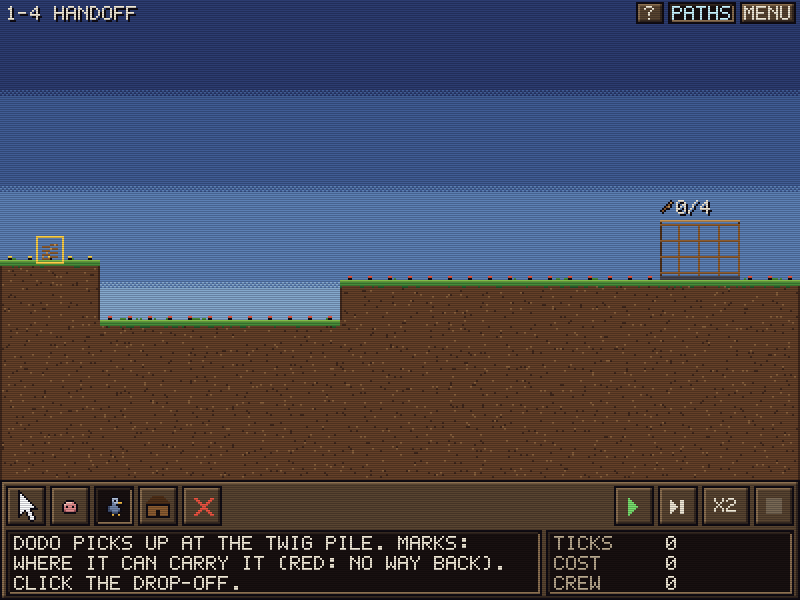
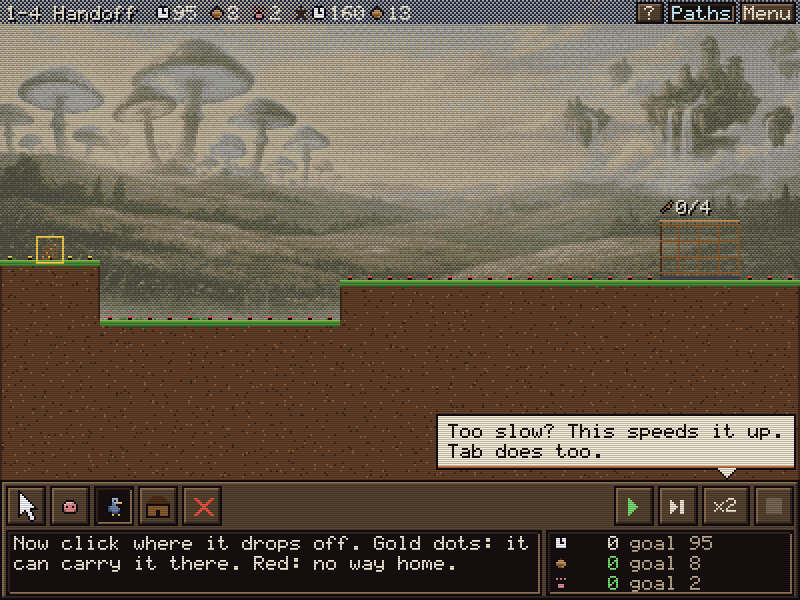
Bird Fortress round 2: docs, balance notes, new screenshots

diff --git a/birdfortress/README.md b/birdfortress/README.md
@@ -46,21 +46,48 @@ different design:
   has one dock (the fortress has two); a pickup or handover holds it for 2 ticks.
 - **Infrastructure:** a springboard adds +2 jump to anyone leaping from it. A ladder costs 1 seed
   per rung. A plank is a one-way board that costs 2 seeds a tile.
+- **Clouds** (chapter V) are one-way platforms that hold a creature only when it carries nothing or
+  something light. Heavier loads fall straight through, so the way there and the way back often
+  differ.
 
 ## Levels
 
-19 sites in four chapters. Chapters I to III teach one rule per site and finish with an open
-puzzle; chapter IV is three full optimization puzzles.
+22 sites in five chapters. Most sites introduce one new thing, and each chapter ends with open
+puzzles.
 
 | Chapter | Sites |
 |---|---|
-| I. Meadow | First Haul, The Bluff, Berry Patch, Handoff, Springboard, **Meadow Market** |
+| I. Meadow | First Haul, The Bluff, Berry Patch, Handoff, Springboard, **Market Day** |
 | II. Quarry | Heavy Stone, Stonecutter, Ladders, **Quarry Road**, **The Crag** |
-| III. Canopy | Eggshells, The Weaver, Bridges, The Kiln, **The Great Tree** |
-| IV. Bastion | **Twin Rivers**, **The Eyrie**, **Bird Fortress** |
+| III. Canopy | Eggshells, The Weaver, Bridges, The Kiln, **Great Tree** |
+| IV. Bastion | **Twin Rivers**, **The Eyrie**, **The Fortress** |
+| V. Skyreach | Cloudwalk, **Moonwell**, **Skyreach** |
 
-Each site has a goal for each score. A goal earns a star, and each best is kept separately. The
-results screen plots your score against a histogram of every distinct solution the solver found.
+Every site has four stars, always shown in the header:
+
+- **Ticks**, **cost** and **crew** goals. Each is the solver's best for that score (ticks rounded
+  up to 5), so each is a hard target on its own.
+- A **combo** goal: hit a ticks limit and a cost limit in the same run. It's taken from the knee of
+  the solver's ticks-versus-cost frontier, a balanced design that neither the fastest nor the
+  cheapest solution reaches.
+
+The results screen plots your score against a histogram of every distinct solution the solver
+found. A green "<" means you beat all of them.
+
+## Teaching
+
+The game teaches itself as you go, with little reading up front:
+
+- **First site:** a guided coach points at each step (hire a tribble, click the pile, click the
+  fortress, run).
+- **Site cards:** each opens with one line of description, the new thing shown with its icon, what
+  the fortress wants, and the goals.
+- **One-time tips** pop up when they matter: a route that can't run, then hints about depots,
+  springboards and ladders. Others come at fragile cargo, queues at a dock, a bush picked clean,
+  the first workshop, and changing a route's cargo.
+- **Tool cards:** hovering a tool shows a picture card. Creatures get a jump and pace chart per
+  load; workshops show their recipe as icons.
+- **Rules (F1):** five short pages, mostly pictures.
 
 ## Reading the map
 
@@ -74,7 +101,8 @@ results screen plots your score against a histogram of every distinct solution t
 
 ## Controls
 
-The left mouse button uses the selected tool and the right button cancels or erases. **1-9** pick
+The left mouse button uses the selected tool. The right button takes away what you built under
+the pointer, or cancels. **1-9** pick
 tools, **X** erases, **Space** runs or pauses, **S** steps one tick, **Tab** changes speed, **R**
 resets, **Z** undoes, **V** shows all paths and **I** shows the site note again. **F1** opens the
 rules, **F2** toggles scanlines and **F3** sets the music level. Everything also has an on-screen
@@ -102,5 +130,11 @@ from them.
 
 - `birdfortress_save.txt` holds progress, per-score bests and your last layout per site.
 - `birdfortress_playtest.log` records every run, solve and stall with layouts (gitignored).
-- Music is the s1 *Abstract Objects* masters, read from `assets/music` or the album folder. The game
-  runs silently if they're missing.
+- Music is the s5 *Virtual History* masters: *A Myth* on the menus and one era per chapter
+  (Prehistory, Iron Age, Golden Age, Space Age, Posthistory). They're read from `assets/music` or
+  the album folder, and the game runs silently if they're missing.
+- `assets/art/` holds the title painting and the chapter backdrops as indexed images with their own
+  small palettes. They were painted by an image model (through `agy`), then converted offline by
+  `tools/convert_art.py`. The converter crops and box-downscales each image, takes a 10-colour
+  palette (46 for the title) snapped to 6-bit DAC values, and ordered-dithers with a 4x4 Bayer
+  matrix. Backdrops are dimmed and desaturated so creatures, paths and buildings stay clear.

diff --git a/birdfortress/BALANCE.md b/birdfortress/BALANCE.md
@@ -38,6 +38,28 @@ The simulation is deterministic, so every site was checked headlessly:
   - Apes own heavy goods and anything up vines or ladders.
   - Every species is the best choice on at least one leg somewhere.
 
+## Round 2 (2026-11-08)
+
+- **Distinct valid solutions per site** (one solver pass, 40 random starts with 150 hill-climbs per
+  score):
+
+  | Chapter | Counts |
+  |---|---|
+  | I | 27, 103, 1559, 589, 1999, 1664 |
+  | II | 28, 4407, 115, 509, 1265 |
+  | III | 102, 361, 106, 144, 186 |
+  | IV | 965, 206, 198 |
+  | V | 416, 5959, 1416 |
+
+  The lowest are the one-rule teaching sites (1-1, 2-1), which is fine.
+- **Ticks-cost frontiers have 3 to 21 points.** Each site's combo goal is the knee: the point
+  closest to the best of both after normalising, excluding the two extremes.
+- **Clouds** split each trip by load. In 5-1, a dodo with twigs must go down and around under the
+  clouds (78 ticks) but walks home across them in 30. Weaving on the near island makes the goods
+  light enough to cross both ways. Where the weaver goes is the site's main decision.
+- **Moonwell's fastest layouts** pull eggs from both nests and bricks from three apes at once (49
+  ticks). The cheapest uses one tribble per job and a single ape on the vine (14 seeds).
+
 ## Open questions for the next round
 
 - Should one site cap the crew, so the ticks goal can't be reached by headcount alone?
